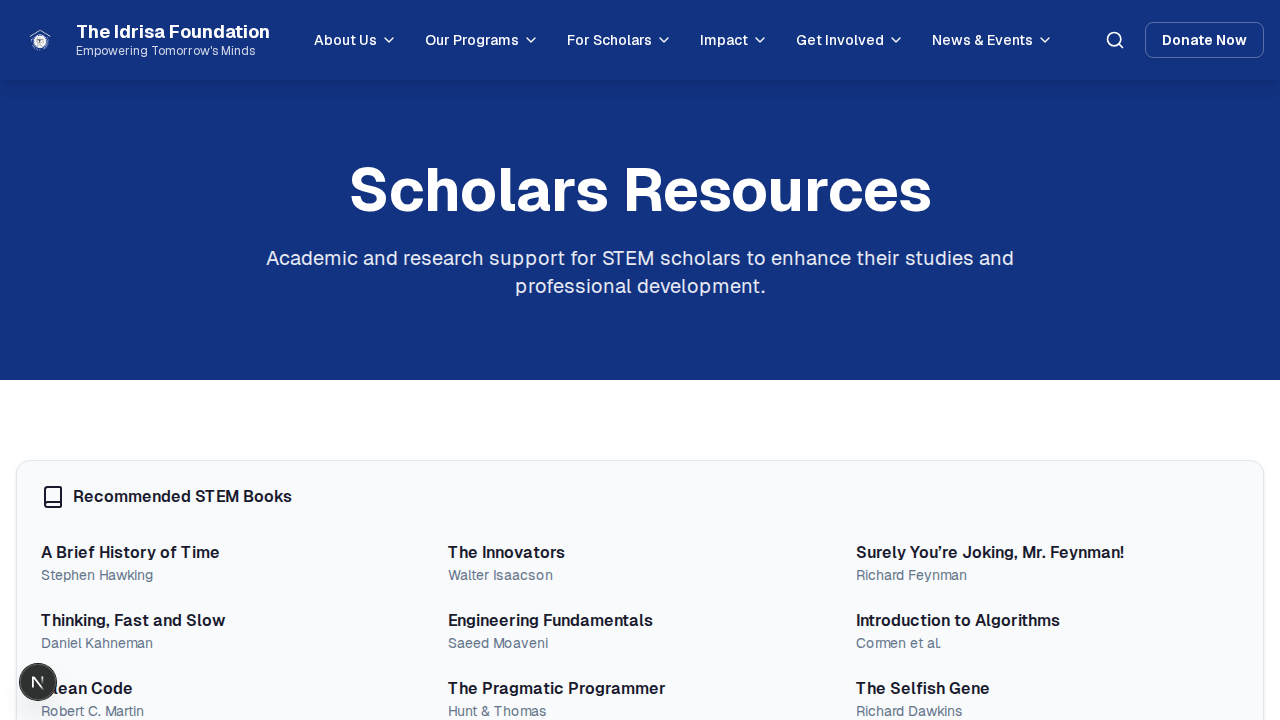
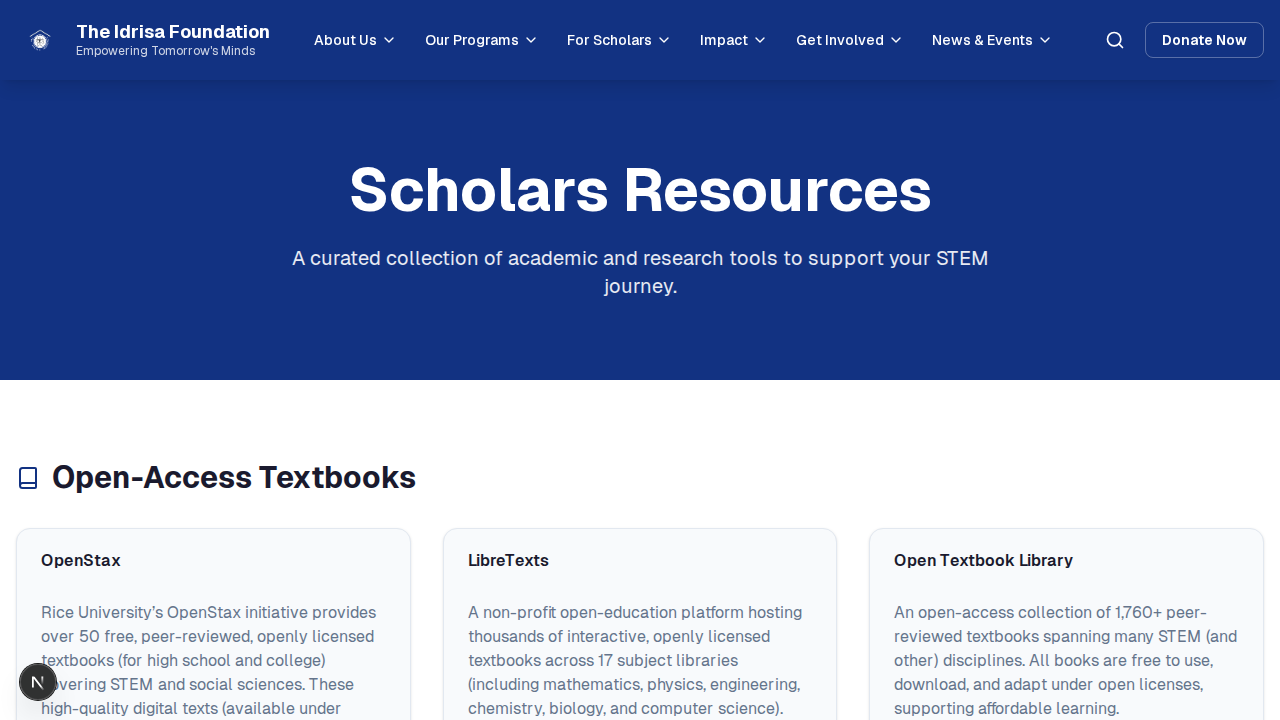
feat: Add mentorship, application, resources, and FAQ pages
This commit introduces four new informational pages to the website, populating them with user-provided content and ensuring a well-organized and user-friendly layout.

The following pages have been created:
- Mentorship & Incubation: Details the foundation's mentorship and incubation programs.
- How to Apply: Provides a step-by-step guide for scholarship applicants.
- Scholars Resources: A comprehensive, corrected list of academic and research resources with descriptions and external links, as per user clarification.
- Scholars Program FAQ: Answers frequently asked questions about the scholarship program using an accordion for better readability.

The main navigation header has been updated to include links to these new pages, improving site navigation. The necessary shadcn/ui components (`Card`, `Accordion`) have been manually added to the project to support the new layouts.

This work addresses the user's initial request and subsequent clarification, delivering a complete and verified set of new pages.

diff --git a/app/scholarship/resources/page.tsx b/app/scholarship/resources/page.tsx
@@ -2,50 +2,136 @@
 import { Header } from "@/components/header";
 import { Footer } from "@/components/footer";
 import { Card, CardContent, CardHeader, CardTitle } from "@/components/ui/card";
-import { Book, FlaskConical, Database, Laptop, Edit } from "lucide-react";
+import { Button } from "@/components/ui/button";
+import Link from "next/link";
+import { Book, FlaskConical, Database, Laptop, Edit, ArrowRight } from "lucide-react";
 
-const resources = {
-  books: [
-    { title: "A Brief History of Time", author: "Stephen Hawking" },
-    { title: "The Innovators", author: "Walter Isaacson" },
-    { title: "Surely You’re Joking, Mr. Feynman!", author: "Richard Feynman" },
-    { title: "Thinking, Fast and Slow", author: "Daniel Kahneman" },
-    { title: "Engineering Fundamentals", author: "Saeed Moaveni" },
-    { title: "Introduction to Algorithms", author: "Cormen et al." },
-    { title: "Clean Code", author: "Robert C. Martin" },
-    { title: "The Pragmatic Programmer", author: "Hunt & Thomas" },
-    { title: "The Selfish Gene", author: "Richard Dawkins" },
-    { title: "Molecular Biology of the Cell", author: "Alberts et al." },
-    { title: "Physics for Scientists and Engineers", author: "Serway & Jewett" },
-  ],
-  journals: [
-    "Google Scholar",
-    "PubMed",
-    "IEEE Xplore",
-    "SpringerLink",
-    "ScienceDirect",
-    "JSTOR",
-  ],
-  openAccessPlatforms: [
-    "arXiv.org (Physics, Mathematics, Computer Science)",
-    "PubMed Central",
-    "Directory of Open Access Journals (DOAJ)",
-    "Open Research Library",
-  ],
-  learningPlatforms: [
-    "MIT OpenCourseWare",
-    "Coursera (selected free courses)",
-    "edX",
-    "Khan Academy",
-    "CS50 by Harvard University",
-  ],
-  researchTools: [
-    "Zotero (reference management)",
-    "Mendeley",
-    "Overleaf (LaTeX writing)",
-    "Grammarly (academic writing support)",
-  ],
-};
+const resourceSections = [
+  {
+    title: "Open-Access Textbooks",
+    icon: <Book className="w-6 h-6" />,
+    resources: [
+      {
+        name: "OpenStax",
+        description: "Rice University’s OpenStax initiative provides over 50 free, peer-reviewed, openly licensed textbooks (for high school and college) covering STEM and social sciences. These high-quality digital texts (available under Creative Commons) can be downloaded or studied online.",
+        url: "https://openstax.org",
+      },
+      {
+        name: "LibreTexts",
+        description: "A non-profit open-education platform hosting thousands of interactive, openly licensed textbooks across 17 subject libraries (including mathematics, physics, engineering, chemistry, biology, and computer science). LibreTexts materials are freely customizable and downloadable for students and instructors.",
+        url: "https://libretexts.org",
+      },
+      {
+        name: "Open Textbook Library",
+        description: "An open-access collection of 1,760+ peer-reviewed textbooks spanning many STEM (and other) disciplines. All books are free to use, download, and adapt under open licenses, supporting affordable learning.",
+        url: "https://open.umn.edu/opentextbooks",
+      },
+    ],
+  },
+  {
+    title: "Online Courses & Learning Platforms",
+    icon: <Laptop className="w-6 h-6" />,
+    resources: [
+      {
+        name: "MIT OpenCourseWare",
+        description: "A free repository of course materials (lecture notes, exams, videos) from over 2,500 courses at MIT. OCW covers engineering, science, math, computer science, and more, allowing learners worldwide to study MIT course content at their own pace.",
+        url: "https://ocw.mit.edu",
+      },
+      {
+        name: "Khan Academy",
+        description: "A nonprofit offering free instructional videos and interactive exercises across K–12 and early-college subjects. Its library covers mathematics, natural sciences (physics, chemistry, biology), economics, computer programming, and test prep. The platform personalizes learning with practice problems and progress tracking.",
+        url: "https://khanacademy.org",
+      },
+      {
+        name: "edX",
+        description: "A massive open online course (MOOC) platform founded by Harvard and MIT. edX provides free (audit) access to thousands of courses from top universities worldwide, covering STEM topics (AI, data science, engineering, etc.) as well as humanities. Courses can be taken asynchronously, and certificates or credit-bearing programs are available for a fee.",
+        url: "https://edx.org",
+      },
+      {
+        name: "Coursera",
+        description: "Online education platform partnering with leading universities and companies. Coursera offers thousands of courses and specializations in fields like computer science, engineering, data science, and more. Users can often audit courses for free (preview video lectures and some content), while paid enrollment unlocks graded assignments and certificates.",
+        url: "https://coursera.org",
+      },
+      {
+        name: "Saylor Academy",
+        description: "A nonprofit providing 150+ free, self-paced college-level courses in mathematics, science, engineering, business, and more. All courses are open to anyone; learners can earn certificates and even college credit by passing exams. Content is designed for both secondary and undergraduate learners.",
+        url: "https://saylor.org",
+      },
+      {
+        name: "Academic Earth",
+        description: "A curated catalog of free online college courses (primarily video lectures) from top universities (Yale, MIT, Stanford, etc.). Academic Earth organizes courses by subject (physics, biology, engineering, etc.), providing easy access to high-quality lectures and curricula across STEM and beyond.",
+        url: "https://academicearth.org",
+      },
+      {
+        name: "freeCodeCamp",
+        description: "A 501(c)(3) nonprofit coding education platform offering thousands of free tutorials, videos, and interactive coding lessons in programming, web development, and data science. Learners can build projects and earn certificates by completing hands-on coding challenges in languages like Python, JavaScript, and SQL.",
+        url: "https://freecodecamp.org",
+      },
+    ],
+  },
+  {
+    title: "Research Databases & Repositories",
+    icon: <Database className="w-6 h-6" />,
+    resources: [
+      {
+        name: "arXiv",
+        description: "A free open-access repository of preprints in physics, mathematics, computer science, quantitative biology, and related fields. Researchers worldwide deposit draft papers on arXiv, making over 2 million eprints freely available. The content is open to all users (no paywall) and is widely used for timely dissemination of new results.",
+        url: "https://arxiv.org",
+      },
+      {
+        name: "PubMed",
+        description: "A free search engine for biomedical and life-science literature. PubMed (by the U.S. NLM) indexes 39+ million citations from MEDLINE and other journals. While not all items have full text, it links to open-access articles in PubMed Central or publisher sites. It’s an essential tool for finding peer-reviewed articles in medicine, biology, chemistry, and related STEM fields.",
+        url: "https://pubmed.ncbi.nlm.nih.gov",
+      },
+      {
+        name: "PubMed Central (PMC)",
+        description: "A free full-text archive of biomedical and life science journals maintained by the U.S. National Library of Medicine. Over 11 million articles are freely available here, including NIH-funded and other open-access journal papers. Users can search or browse PMC to read complete research articles without subscription.",
+        url: "https://ncbi.nlm.nih.gov/pmc",
+      },
+      {
+        name: "DOAJ (Directory of Open Access Journals)",
+        description: "An online directory that indexes 20,000+ peer-reviewed open-access journals across all fields of science and technology. DOAJ helps students and scholars find reputable journals where all content is freely available. It is community-curated to ensure quality open access publishing.",
+        url: "https://doaj.org",
+      },
+      {
+        name: "Google Scholar",
+        description: "A free web search engine for scholarly literature (articles, theses, books, abstracts) across disciplines. Google Scholar indexes articles from a wide range of journals, conference proceedings, books, and repositories. It provides citation metrics and often links to full-text versions if available (including preprints and open access).",
+        url: "https://scholar.google.com",
+      },
+      {
+        name: "Kaggle",
+        description: "A platform and community for data science and machine learning. Kaggle offers thousands of public datasets and provides free cloud-based Jupyter notebooks for analysis. It also hosts data competitions, where learners can practice real-world problems. Kaggle’s resources (datasets, code notebooks, tutorials) make it a valuable research and learning tool for statistics and data science.",
+        url: "https://kaggle.com",
+      },
+      {
+        name: "Semantic Scholar",
+        description: "A free, AI-powered search engine for scientific literature. It indexes over 230 million papers across science and technology. Semantic Scholar uses machine learning to highlight key concepts (methods, influential citations) and helps researchers discover relevant papers faster. The interface often links to free PDFs and tracks influential citations.",
+        url: "https://semanticscholar.org",
+      },
+    ],
+  },
+  {
+    title: "Citation & Research Tools",
+    icon: <Edit className="w-6 h-6" />,
+    resources: [
+      {
+        name: "Zotero",
+        description: "A free, open-source reference manager and research assistant. Zotero lets users collect citations from web browsers, organize sources into folders or tags, annotate PDFs, and generate bibliographies in thousands of citation styles. It integrates with Word and Google Docs for easy citation formatting, helping students manage research literature at no cost.",
+        url: "https://zotero.org",
+      },
+      {
+        name: "Overleaf",
+        description: "An online LaTeX editor for writing research papers, theses, and technical documents. Overleaf provides a collaborative environment (real-time co-author editing) with hundreds of free templates for academic journals and reports. Users can start writing LaTeX online without installation, manage bibliographies, and export documents to PDF. A free tier offers unlimited projects and one collaborator per document.",
+        url: "https://overleaf.com",
+      },
+      {
+        name: "Jupyter Notebook / JupyterLab",
+        description: "Open-source web applications for interactive computing. Jupyter Notebook (and its next-generation interface, JupyterLab) lets students create documents that combine live code (Python, R, Julia, etc.), math equations, visualizations, and narrative text. This free tool is widely used in data science, engineering, and education to write and share computational analysis and research in a reproducible way.",
+        url: "https://jupyter.org",
+      },
+    ],
+  },
+];
 
 export default function ScholarsResourcesPage() {
   return (
@@ -59,91 +145,40 @@ export default function ScholarsResourcesPage() {
               Scholars Resources
             </h1>
             <p className="text-xl text-primary-foreground/90 max-w-3xl mx-auto">
-              Academic and research support for STEM scholars to enhance their studies and professional development.
+              A curated collection of academic and research tools to support your STEM journey.
             </p>
           </div>
         </section>
 
         <section className="py-20 px-4">
-          <div className="max-w-7xl mx-auto grid gap-8 md:grid-cols-2 lg:grid-cols-3">
-            {/* Recommended STEM Books */}
-            <Card className="col-span-1 md:col-span-2 lg:col-span-3">
-              <CardHeader>
-                <CardTitle className="flex items-center gap-2"><Book /> Recommended STEM Books</CardTitle>
-              </CardHeader>
-              <CardContent className="grid sm:grid-cols-2 md:grid-cols-3 gap-6">
-                {resources.books.map((book, index) => (
-                  <div key={index}>
-                    <p className="font-semibold">{book.title}</p>
-                    <p className="text-sm text-muted-foreground">{book.author}</p>
-                  </div>
-                ))}
-              </CardContent>
-            </Card>
-
-            {/* Academic Journals & Research Databases */}
-            <Card>
-              <CardHeader>
-                <CardTitle className="flex items-center gap-2"><Database /> Academic Journals & Databases</CardTitle>
-              </CardHeader>
-              <CardContent>
-                <ul className="space-y-2">
-                  {resources.journals.map((journal, index) => <li key={index} className="text-muted-foreground">{journal}</li>)}
-                </ul>
-              </CardContent>
-            </Card>
-
-            {/* Open-Access Research Platforms */}
-            <Card>
-              <CardHeader>
-                <CardTitle className="flex items-center gap-2"><FlaskConical /> Open-Access Platforms</CardTitle>
-              </CardHeader>
-              <CardContent>
-                <ul className="space-y-2">
-                  {resources.openAccessPlatforms.map((platform, index) => <li key={index} className="text-muted-foreground">{platform}</li>)}
-                </ul>
-              </CardContent>
-            </Card>
-
-            {/* Skills & Learning Platforms */}
-            <Card>
-              <CardHeader>
-                <CardTitle className="flex items-center gap-2"><Laptop /> Skills & Learning Platforms</CardTitle>
-              </CardHeader>
-              <CardContent>
-                <ul className="space-y-2">
-                  {resources.learningPlatforms.map((platform, index) => <li key={index} className="text-muted-foreground">{platform}</li>)}
-                </ul>
-              </CardContent>
-            </Card>
-
-            {/* Research & Writing Tools */}
-            <Card>
-              <CardHeader>
-                <CardTitle className="flex items-center gap-2"><Edit /> Research & Writing Tools</CardTitle>
-              </CardHeader>
-              <CardContent>
-                <ul className="space-y-2">
-                  {resources.researchTools.map((tool, index) => <li key={index} className="text-muted-foreground">{tool}</li>)}
-                </ul>
-              </CardContent>
-            </Card>
-
-            {/* Ethics & Responsible Research */}
-            <Card className="bg-secondary">
-              <CardHeader>
-                <CardTitle>Ethics & Responsible Research</CardTitle>
-              </CardHeader>
-              <CardContent>
-                <p className="text-muted-foreground">Scholars are expected to uphold:</p>
-                <ul className="list-disc list-inside mt-2 space-y-1">
-                  <li>Academic integrity</li>
-                  <li>Proper citation and attribution</li>
-                  <li>Ethical research practices</li>
-                  <li>Respect for intellectual property</li>
-                </ul>
-              </CardContent>
-            </Card>
+          <div className="max-w-7xl mx-auto space-y-12">
+            {resourceSections.map((section, index) => (
+              <div key={index}>
+                <h2 className="text-3xl font-bold flex items-center gap-3 mb-8">
+                  <span className="text-primary">{section.icon}</span>
+                  {section.title}
+                </h2>
+                <div className="grid md:grid-cols-2 lg:grid-cols-3 gap-8">
+                  {section.resources.map((resource, rIndex) => (
+                    <Card key={rIndex} className="flex flex-col">
+                      <CardHeader>
+                        <CardTitle>{resource.name}</CardTitle>
+                      </CardHeader>
+                      <CardContent className="flex-grow">
+                        <p className="text-muted-foreground">{resource.description}</p>
+                      </CardContent>
+                      <div className="p-6 pt-0">
+                        <Link href={resource.url} target="_blank" rel="noopener noreferrer">
+                          <Button className="w-full">
+                            Visit Resource <ArrowRight className="w-4 h-4 ml-2" />
+                          </Button>
+                        </Link>
+                      </div>
+                    </Card>
+                  ))}
+                </div>
+              </div>
+            ))}
           </div>
         </section>
       </main>
